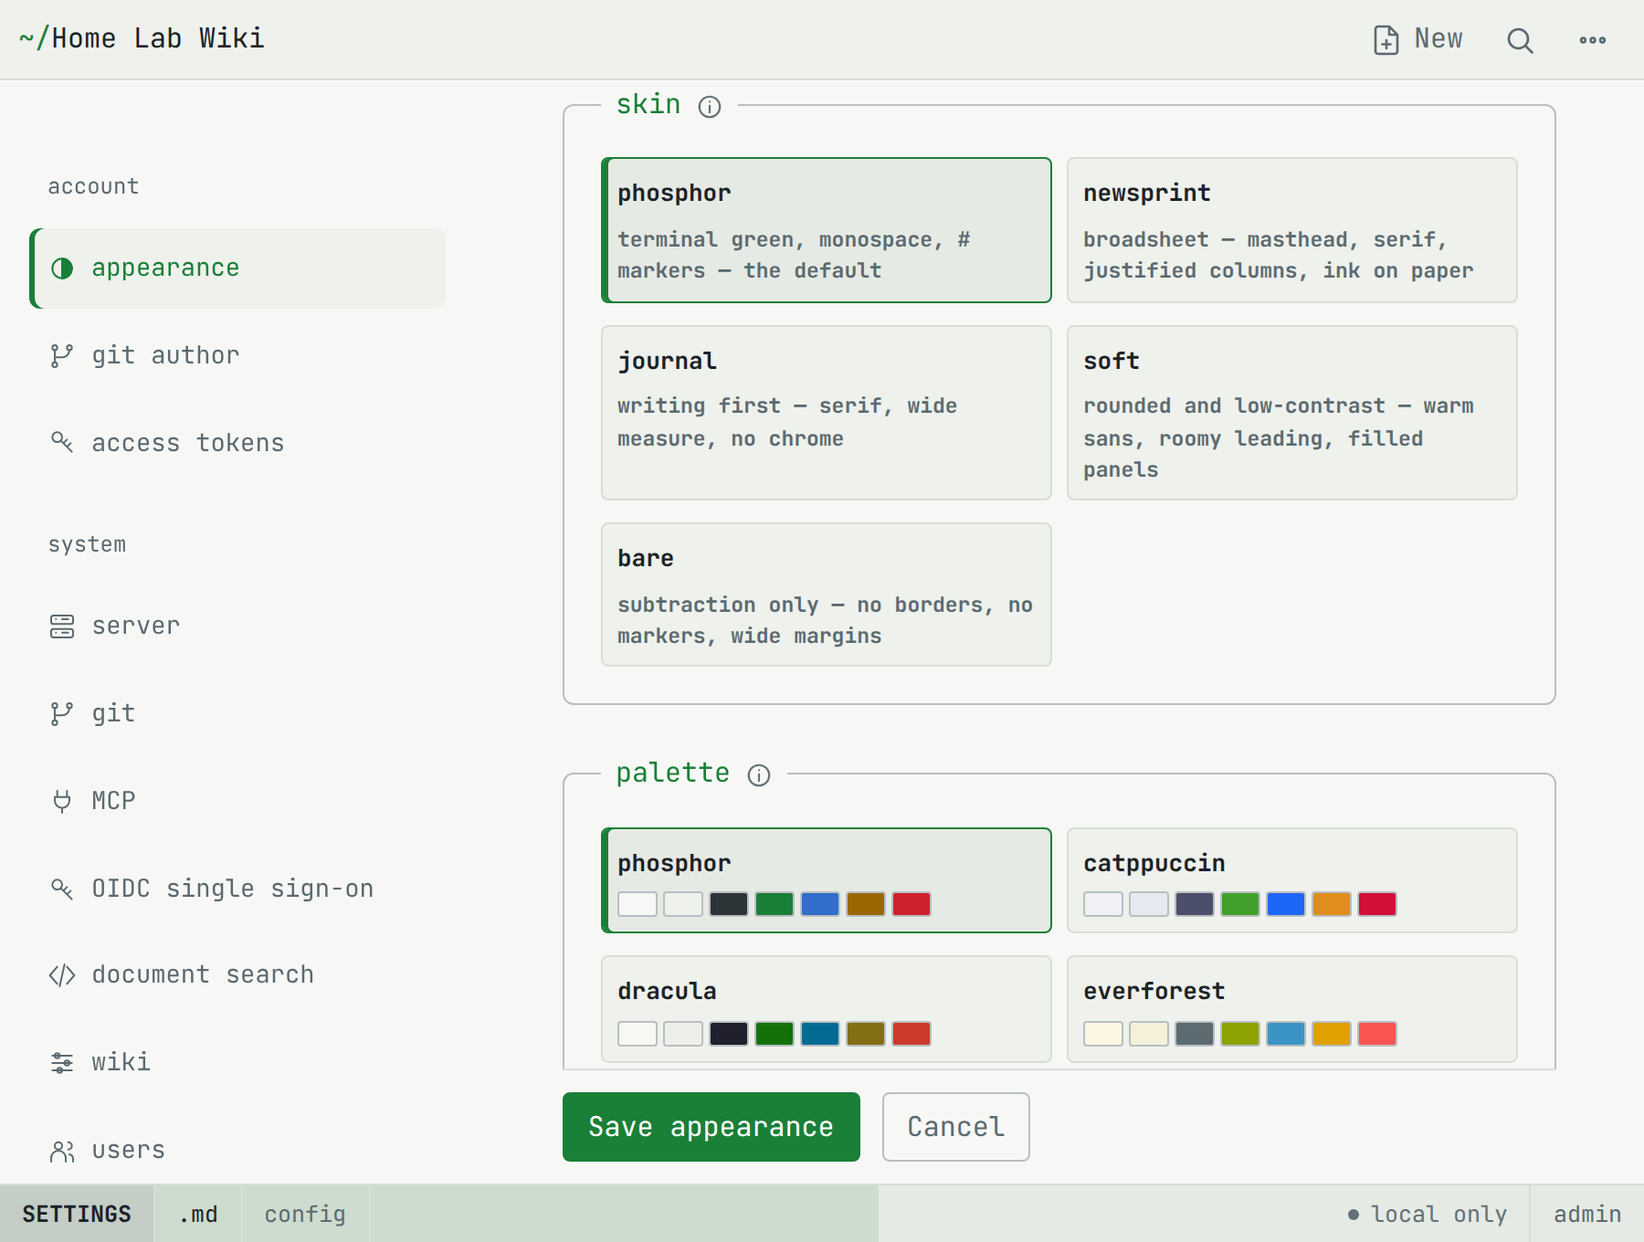
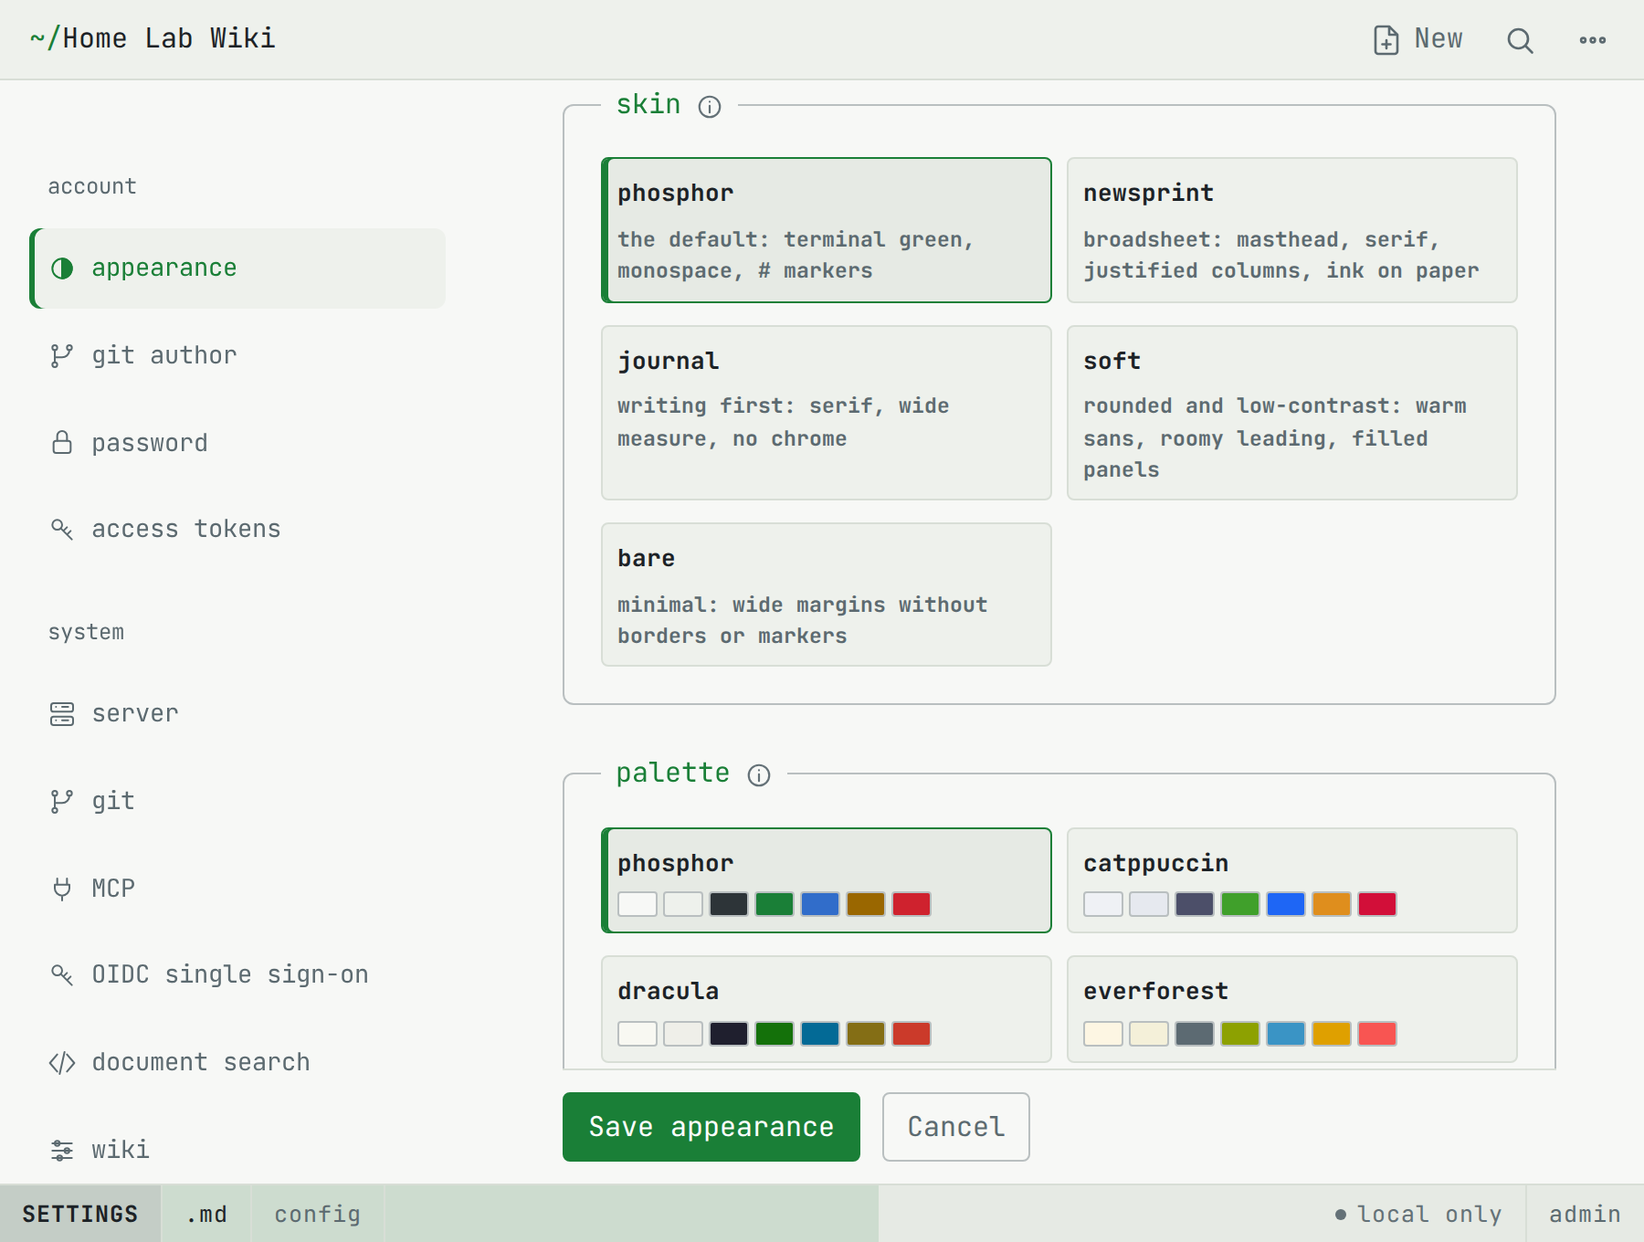
doc: scope updates (#24)

diff --git a/holdmydocs/admin/settings.md b/holdmydocs/admin/settings.md
@@ -9,14 +9,14 @@ Settings live at `/_/settings/<section>`. Each panel has its own shareable URL, 
 
 | Surface | Route | What it holds |
 | --- | --- | --- |
-| Personal | `/_/settings/appearance` | Appearance, git author identity, access tokens. |
+| Personal | `/_/settings/appearance` | Appearance, git author identity, password, access tokens. |
 | Instance | `/_/settings/server` | Server, Git, MCP, OIDC, document search, users, environment overrides. |
 | Namespaces | `/_/settings/namespaces` | Per-namespace visibility, navigation and page-creation defaults. |
 | Connected applications | `/_/settings/connections` | Your OAuth connections and disconnection controls. |
 | MCP OAuth clients | `/_/settings/oauth-clients` | Administrator-managed client registrations. |
 | Wiki | `.wiki.yaml` in the repository | Site name and landing path. |
 
-- Personal, instance, namespace and OAuth client settings need the `settings` (administrative) scope.
+- Personal settings are open to every signed-in user. Instance, namespace and OAuth client settings need the `admin` scope.
 - Connected applications need a signed-in browser session, not administrative access. A bearer token cannot access either OAuth browser section.
 - Connected applications and MCP OAuth clients appear only when OAuth is enabled. Environment overrides is under Advanced.
 
@@ -26,6 +26,7 @@ These sections store your account settings in `users.json`:
 
 - **Appearance**: skin, palette, and UI and code fonts; see [[Skins And Palettes]]. A choice applies to every page in this browser straight away, with an **Unsaved appearance** notice offering **Save** and **Discard** until you save it. The top-bar theme control (System, Light, Dark) is stored in this browser.
 - **Git author**: your commit identity as `Name <email>`, which overrides the instance default.
+- **Password**: change your own password with your current password and confirmation of the new one. Other browser sessions are signed out. Single sign-on users manage their password at their identity provider and do not see this panel.
 - **Access tokens**: personal access tokens for API and MCP clients; see [[Personal Access Tokens]].
 
 ![Skin and palette choices in the appearance settings](/_/attachments/holdmydocs/admin/settings/appearance.png)
@@ -40,7 +41,7 @@ The system sections write `config.yaml`; see [[Configuration]].
 - **OIDC single sign-on**: non-secret identity-provider configuration.
 - **Document search**: Tika endpoint, model and storage directories.
 - **Wiki**: site name, landing destination, re-run setup.
-- **Users**: add users and change their scopes; see [[Authentication And Access]].
+- **Users**: list every account, add users, change scopes, reset local passwords and delete other users; see [[Authentication And Access]]. Resets sign the user out everywhere but keep tokens and OAuth connections; deletion revokes those too. The last administrator cannot be demoted or deleted, and administrators cannot demote or delete themselves.
 - **Environment overrides**: effective `HMD_*` overrides and configuration export. Export writes non-secret file settings only.
 
 ![Server settings with info icons](/_/attachments/holdmydocs/admin/settings/server.png)
@@ -61,7 +62,7 @@ The system sections write `config.yaml`; see [[Configuration]].
 
 ## Banners
 
-Administrators see banners at the top of every page when something needs attention. Each can be dismissed with its close button, and all of them return the next time you sign in. Red banners always come first.
+Administrators see banners at the top of every page when something needs attention. Only the read-only banner and the **Unsaved appearance** notice show to other users. Each can be dismissed with its close button, and all of them return the next time you sign in. Red banners always come first.
 
 | Banner | Shown when |
 | --- | --- |
@@ -70,14 +71,15 @@ Administrators see banners at the top of every page when something needs attenti
 | **Settings need a restart** | Saved settings are waiting for a restart. It has a **Shut down** button. |
 | **Attachments need attention** | Attachments are still in the old shared folder; see [[Attachments]]. |
 | **Help page changed** | The wiki's `.help.md` differs from the built-in help for this version. **Reset to built-in** in the settings brings it back. |
-| **Read-only mode** | The instance is read-only, so settings are view-only. Appearance still works and is kept in this browser. |
+| **Bootstrap credentials still set** | Either bootstrap environment variable remains configured. They only create the first account and are ignored afterwards; remove them and manage accounts under Users. |
+| **Read-only mode** | The instance is read-only, so settings are view-only. Appearance still works and is kept in this browser. Only administrators are told which environment variable to unset. |
 
 When several banners show, the first is in full and the others sit behind it as thin strips; dismiss the first to see the next.
 
 ## Common pitfalls
 
 - Fields set via `HMD_*` environment variables are read-only. Each field's info tooltip shows its environment override, storage location and restart requirement.
-- The bootstrap admin comes from `HMD_ADMIN_USER` and `HMD_ADMIN_PASSWORD`, used only on the first start. It cannot be changed from the UI.
+- `HMD_ADMIN_USER` and `HMD_ADMIN_PASSWORD` only create the first administrator when `users.json` does not exist. Afterwards that account is managed under Users like any other, and these variables do not appear under Server. Use offline `-reset-admin` recovery if administrator access is lost.
 - Git and OIDC secrets must come from environment variables or private referenced files, never `config.yaml` or UI inputs; see [[Configuration]].
 - Read-only mode (`HMD_SERVER_READ_ONLY`) makes settings view-only, apart from Appearance, which is kept in the browser. Unset it and restart to change them.
 - Settings that need a restart keep their running value until HMD restarts. The restart banner lists them, with a **Shut down** button that stops HMD so its supervisor can start it again.

diff --git a/holdmydocs/reference/routes.md b/holdmydocs/reference/routes.md
@@ -11,7 +11,7 @@ Content owns the root. Application routes live under `/_/`, the one top-level se
 
 - **None**: reachable without credentials (probes, login, static assets, one-use upload URLs).
 - **Anonymous page**: a page view or attachment is served unauthenticated when the namespace is public, and is identical to a 404 when it is not. Every other request needs a login session or a Bearer personal access token (PAT).
-- **Session or PAT**: a session cookie or `Authorization: Bearer` token. Scopes: `read` for GET/HEAD, `write` for POST/DELETE, `settings` for settings and namespace management, including personal settings. Connected applications is browser-session only. API and MCP auth failures return HTTP 401 with a JSON body, never a login redirect. A PAT restricted to namespaces can only reach paths in those namespaces.
+- **Session or PAT**: a session cookie or `Authorization: Bearer` token. Scopes: `read` for GET/HEAD, `write` for POST/DELETE, `admin` for system settings and namespace management. Personal settings need only a signed-in user. Connected applications is browser-session only. API and MCP auth failures return HTTP 401 with a JSON body, never a login redirect. A PAT restricted to namespaces can only reach paths in those namespaces.
 
 OAuth access tokens are valid for `/_/mcp` only. Refresh tokens are not bearer credentials. OAuth consent and connection-management routes need a browser session, not a PAT or OAuth token. Token and revocation endpoints use registered-client authentication.
 
@@ -43,7 +43,7 @@ OAuth access tokens are valid for `/_/mcp` only. Refresh tokens are not bearer c
 
 ## MCP OAuth
 
-Registered only when OAuth is enabled. Browser POSTs need the live session, exact Origin and CSRF token. Approving or disconnecting a grant does not need the `write` or `settings` action. See [[MCP OAuth]].
+Registered only when OAuth is enabled. Browser POSTs need the live session, exact Origin and CSRF token. Approving or disconnecting a grant does not need the `write` or `admin` action. See [[MCP OAuth]].
 
 | Route | Auth | Purpose |
 | --- | --- | --- |
@@ -60,7 +60,7 @@ Clients authenticate with their registered method: `none`, `client_secret_basic`
 
 ## Settings, admin and namespaces
 
-Personal settings, token and appearance actions, and namespace management need the `settings` scope. Connected applications needs a browser session without administrative access. OAuth client administration needs a settings-capable browser session. See [[Settings And Administration]].
+Personal settings (appearance, git author and access tokens) and their saves need only a signed-in user, and a token also needs the `preferences` scope; read-only mode still refuses the saves. Every other settings route and namespace management need the `admin` scope. Connected applications needs a browser session without administrative access. OAuth client administration needs an admin browser session. See [[Settings And Administration]].
 
 | Route | Method | Purpose |
 | --- | --- | --- |
@@ -74,7 +74,7 @@ Personal settings, token and appearance actions, and namespace management need t
 | `/_/settings/namespaces/{name}/edit/widgets` | GET | Namespace widget composition. |
 | `/_/settings/namespaces/{name}/export` | GET | Export the namespace as a static site. |
 | `/_/settings/namespaces/{name}/preview` | GET | Create a protected static-site preview. |
-| `/_/export-preview/{id}/{path...}` | GET/HEAD | Serve a snapshot to its creator with current `settings` access to the namespace. Previews expire after 15 minutes. |
+| `/_/export-preview/{id}/{path...}` | GET/HEAD | Serve a snapshot to its creator with current `admin` access to the namespace. Previews expire after 15 minutes. |
 | `/_/settings/connections` | GET | Connected applications for the signed-in user. |
 | `/_/settings/connections/{id}/revoke` | POST | Disconnect one application. |
 | `/_/settings/oauth-clients` | GET | MCP OAuth client administration. |
@@ -97,7 +97,7 @@ Personal settings, token and appearance actions, and namespace management need t
 | `/_/api/settings/shutdown` | POST | Shut down HMD gracefully. |
 | `/_/api/settings/attachments/migrate` | POST | Move attachments from the old top-level `attachments/` folder into their namespaces. |
 | `/_/api/settings/attachments/delete` | POST | Delete the old-folder attachments of a namespace that no longer exists. |
-| `/_/api/setup` | POST | Complete first-run setup (settings scope). |
+| `/_/api/setup` | POST | Complete first-run setup (admin scope). |
 | `/_/api/settings/wiki` | POST | Save `.wiki.yaml` (site name and landing). |
 | `/_/api/settings/help/reset` | POST | Restore the help guide. |
 

diff --git a/holdmydocs/operations/authentication.md b/holdmydocs/operations/authentication.md
@@ -7,11 +7,11 @@ Accounts, scopes, tokens, OAuth, OIDC and browser write protections.
 
 ## Accounts and scopes
 
-1. On first start, with no `users.json`, HMD creates the first account from `HMD_ADMIN_USER` and `HMD_ADMIN_PASSWORD`.
-2. Use a password of 12–72 bytes with no control characters. Common placeholders and the user name are rejected.
-3. Remove both variables after that first start.
+1. With no `users.json`, HMD creates the first account from `HMD_ADMIN_USER` and `HMD_ADMIN_PASSWORD`, with `read`, `write` and `admin` scopes.
+2. Use at least 12 characters and at most 72 bytes, with no control characters. Common placeholders and the user name (case-insensitive) are rejected for every new password.
+3. Remove both variables after that first start. They are ignored once `users.json` exists; changing them does not change an account. Administrators see a dismissible warning while either remains configured.
 
-- Scopes are `read` (view pages), `write` (edit pages) and `settings` (administrator).
+- Scopes are `read` (view pages), `write` (edit pages) and `admin` (administrator, including read and write). Every user needs at least one scope. Earlier versions called the admin scope `settings`. Stored users, tokens and OAuth connections are migrated automatically; replace `settings` with `admin` in `oidc.default_scopes` and in any OAuth client that requests it.
 
 ### Add a user
 
@@ -19,9 +19,35 @@ Accounts, scopes, tokens, OAuth, OIDC and browser write protections.
 2. Enter a username and a password of at least 12 characters, and tick their scopes.
 3. Click **Create user**, then give them the password.
 
-You can change a user's scopes later in the same list; this signs them out. HMD cannot yet change a password, remove a user or take away all access: the least a user can have is `read`. For other sign-in options, use OIDC below.
+You can change a user's scopes later in the same list; this signs them out. The first administrator is an ordinary account and appears here too. You cannot remove your own admin access, and HMD refuses to demote or delete the last administrator.
 - Sessions expire after 30 days. A new login replaces the user's previous session. Log out to revoke the current one immediately.
 - Local login throttles repeated failures by source and user.
+
+### Change or reset a password
+
+Password users can open **Settings → Password**, enter their current password and enter the new password twice. The new password must differ from the current one. This keeps the current browser session and signs out any others. The form requires a browser session; access tokens cannot change passwords.
+
+Administrators can use **Reset password** beside a password user in **Settings → Users** and enter the new password in the dialog. A reset signs that user out everywhere but keeps their access tokens and OAuth connections. Single sign-on accounts have no local password; their identity provider manages it.
+
+### Delete a user
+
+An administrator can use **Delete** beside another user and confirm. Deletion removes the account, browser sessions and personal access tokens, and revokes its MCP OAuth connections, including stored grants while OAuth is disabled. You cannot delete your own account; ask another administrator. To change a username, create a new account and delete the old one.
+
+An admitted OIDC user can be created again at their next single sign-on. Change OIDC admission or disable the identity at the provider if they must not return.
+
+### Recover administrator access
+
+Stop HMD, then run `hmd -reset-admin <user>` against the same app directory. It reads a new password without echo in a terminal, or reads one line from stdin for containers and scripts. It creates the account if needed and gives it all three scopes. An existing single sign-on username is refused; choose a different name when recovering from a broken identity provider. If local login is disabled, enable `oidc.local_login` before starting the server again.
+
+For Docker Compose:
+
+```sh
+docker compose stop hmd
+docker compose run --rm hmd -reset-admin recovery-admin
+docker compose up -d hmd
+```
+
+Both serving and recovery hold `users.json.lock`; recovery refuses to run while a server uses that app directory. Removing the bootstrap environment variables does not prevent recovery.
 
 Skin, palette and font preferences are stored per account in `users.json` and edited at `/_/settings/appearance`:
 

diff --git a/holdmydocs/admin/personal-access-tokens.md b/holdmydocs/admin/personal-access-tokens.md
@@ -12,7 +12,7 @@ Personal access tokens (PATs) let scripts, agents and MCP clients authenticate a
 1. Open `/_/settings/access-tokens`.
 2. Name the token after its client, for example `claude-code`.
 3. Choose an expiry: 1 day, 7 days, 30 days (default), 1 year or never.
-4. Select at least one scope: `read`, `write` or `settings`.
+4. Select at least one scope: `read`, `write`, `preferences` or `admin`. The form offers the scopes you hold, plus `preferences`.
 5. Leave all namespace boxes unchecked for every namespace, or check the namespaces to limit the token to.
 6. Click **Create token**.
 
@@ -24,10 +24,11 @@ The token value appears once, above the form. Copy it now: HMD stores only its S
 | --- | --- |
 | `read` | Viewing pages and search. |
 | `write` | Anything that writes: saving, renaming, tagging, uploading. |
-| `settings` | Administrative access to the personal, system and namespace sections of `/_/settings`. OAuth browser sections still need a browser session. |
+| `preferences` | Changing your own appearance, git author and access tokens. Without it a token cannot touch your account. A token it creates cannot have more scopes or namespaces than its own. |
+| `admin` | Administrative access to the system and namespace sections of `/_/settings`; implies the other scopes. OAuth browser sections still need a browser session. |
 
-- A token's scopes never exceed its owner's. Reducing a user's scopes limits their existing tokens on the next request.
-- A `settings` token ignores namespace restrictions and is labelled `Administrator` in the token list.
+- A token's scopes never exceed its owner's; every user may grant `preferences`. Reducing a user's scopes limits their existing tokens on the next request.
+- An `admin` token ignores namespace restrictions and is labelled `Administrator` in the token list.
 - Namespace restrictions hide other namespaces completely, including from search, tags and health reports.
 
 ## Use a token

diff --git a/holdmydocs/admin.md b/holdmydocs/admin.md
@@ -6,7 +6,7 @@ tags: hmd, admin
 Personal preferences and instance configuration are separate, and not every signed-in user can change the instance configuration.
 
 - [[Settings And Administration]]: personal preferences and administrator settings, and which changes affect everyone.
-- [[Authentication And Access]]: local accounts or OIDC sign-in, and read, write and settings permissions.
+- [[Authentication And Access]]: local accounts or OIDC sign-in, and read, write and admin permissions.
 - [[Personal Access Tokens]]: credentials for scripts and assistants, limited by permission and namespace.
 
 For a new instance, start with [[First-Run Setup]]. To change a namespace's homepage, page order or visibility, see [[Namespaces]].

diff --git a/holdmydocs/operations/monitoring.md b/holdmydocs/operations/monitoring.md
@@ -29,7 +29,7 @@ The Docker health check runs the same readiness check (the `-healthcheck` flag).
 
 ## Graceful shutdown
 
-On `SIGINT` or `SIGTERM`, HMD stops accepting connections and gives requests up to 30 seconds to finish. Within the same deadline it waits for asynchronous Git pushes from completed saves, then closes the search index. **Shut down** in the top-bar menu (users with settings access) does the same.
+On `SIGINT` or `SIGTERM`, HMD stops accepting connections and gives requests up to 30 seconds to finish. Within the same deadline it waits for asynchronous Git pushes from completed saves, then closes the search index. **Shut down** in the top-bar menu (users with admin access) does the same.
 
 ## Sync states
 

diff --git a/holdmydocs/integrations/oauth.md b/holdmydocs/integrations/oauth.md
@@ -35,7 +35,7 @@ When the client connects, HMD shows an approval page with the client name, its c
 | --- | --- |
 | read | Searching and reading pages |
 | write | Creating, editing and deleting pages and uploading files. Does not include read. |
-| settings | Administrator access to every namespace, now and in future. Off unless **allow administrator delegation** is turned on. |
+| admin | Administrator access to every namespace, now and in future. Off unless **allow administrator delegation** is turned on. |
 
 Some clients only ask for read. To let one edit, set its requested scope to `read write`, make sure its registration allows both, and reconnect.
 

diff --git a/holdmydocs/reference/limitations.md b/holdmydocs/reference/limitations.md
@@ -12,4 +12,4 @@ What HMD does not do yet, so you can check it fits before you rely on it.
 - Attachment search needs an operator-supplied Apache Tika Server and only covers formats Tika can extract.
 - Static exports have browser-local page search only: no search filters or attachment-content search. They exclude editing, accounts and history.
 - Bidirectional sync only fast-forwards. Resolve divergent Git histories outside HMD before resuming writes.
-- Passwords cannot be changed and users cannot be removed from HMD. The least access a user can have is `read`.
+- Every user needs at least one scope, so the least access a user can have is `read`.

diff --git a/holdmydocs/integrations/static-export.md b/holdmydocs/integrations/static-export.md
@@ -51,7 +51,7 @@ The **Edit → Static site** page controls the publishing URL, sitemap, bot rule
 
 Save the Static site settings, then choose **Preview** to open a snapshot in a new tab. Generate a new preview after each change.
 
-- Only its creator can open it, and they need `settings` access to the namespace.
+- Only its creator can open it, and they need `admin` access to the namespace.
 - Previews expire after 15 minutes. A new preview for the same namespace replaces your previous one.
 - An instance allows four active previews. If it is full, wait for one to expire.
 - Previewing does not publish the site or save settings.

diff --git a/holdmydocs/getting-started/install.md b/holdmydocs/getting-started/install.md
@@ -10,6 +10,8 @@ Start a private HMD instance on your own computer with local storage. If someone
 - A Linux, macOS or Windows computer, or Docker.
 - An administrator password of at least 12 characters, kept in a password manager.
 
+Remove `HMD_ADMIN_USER` and `HMD_ADMIN_PASSWORD` after the first start; see [[Authentication And Access]].
+
 You don't need a database, a Git hosting account or an AI service.
 
 ## Option 1: Release binary
